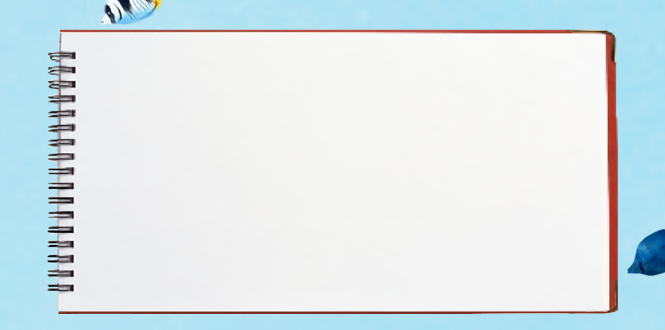
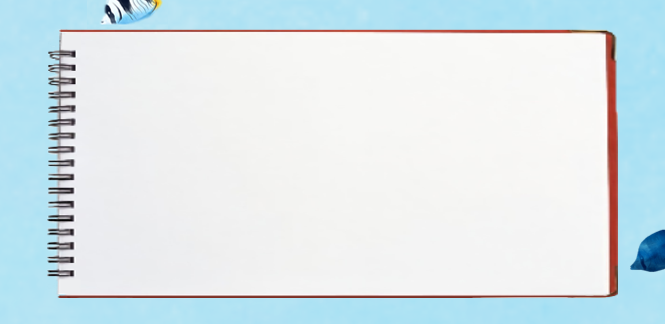
change test and calendar

diff --git a/css/calendar.css b/css/calendar.css
@@ -5,7 +5,7 @@ html {
 body {
     height: 100%;
     background-image: url(../img/1118.png);
-    background-repeat: no-repeat;
+    background-repeat: repeat;
     background-size: cover;
 }
 h1{
@@ -52,7 +52,6 @@ figure{
     padding: 23px 0;
     margin-left: 25px;
 }
-
 
 .Jul_pic{
     height: 140px;
@@ -115,13 +114,14 @@ figure{
         width: 100%;
     }
     .books {
+        max-height: 260px;
         padding: 1.2em 0;
         margin-left: 6%;
     }
     .Jul_pic{
         height: 110px;
     }
-    .Aug_pic{
+    .Aug_pic{ 
         height: 110px;
         transform: rotate(-8deg);
         margin-left: 9.8px;
